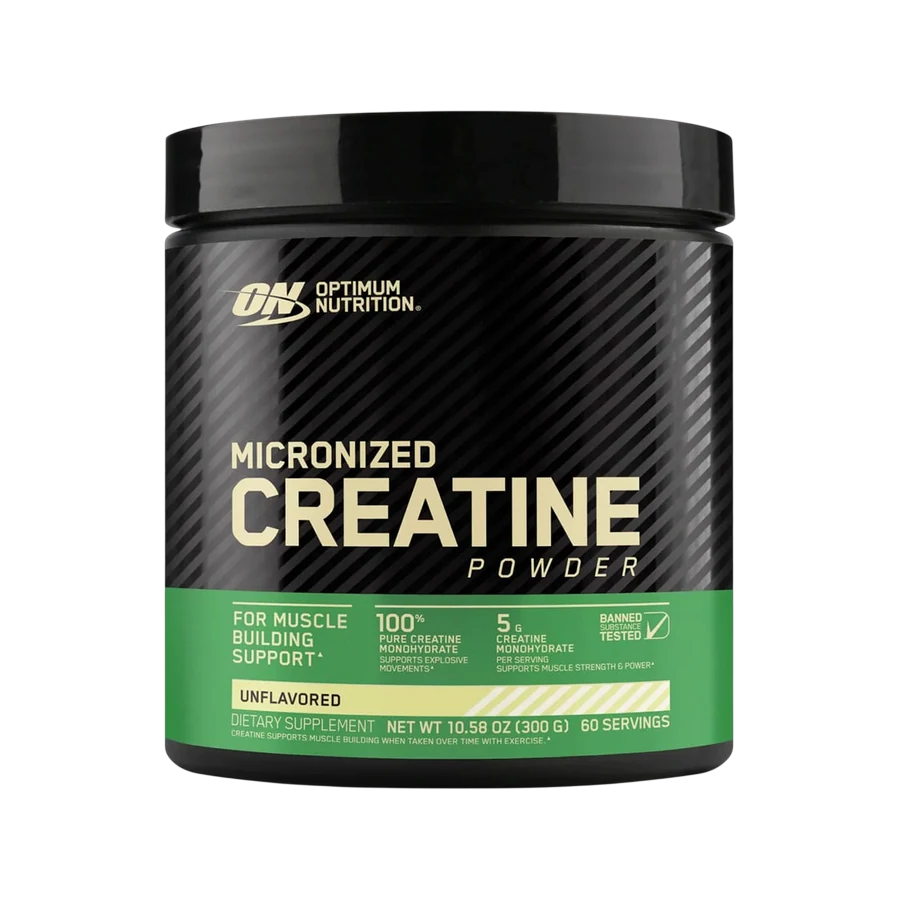
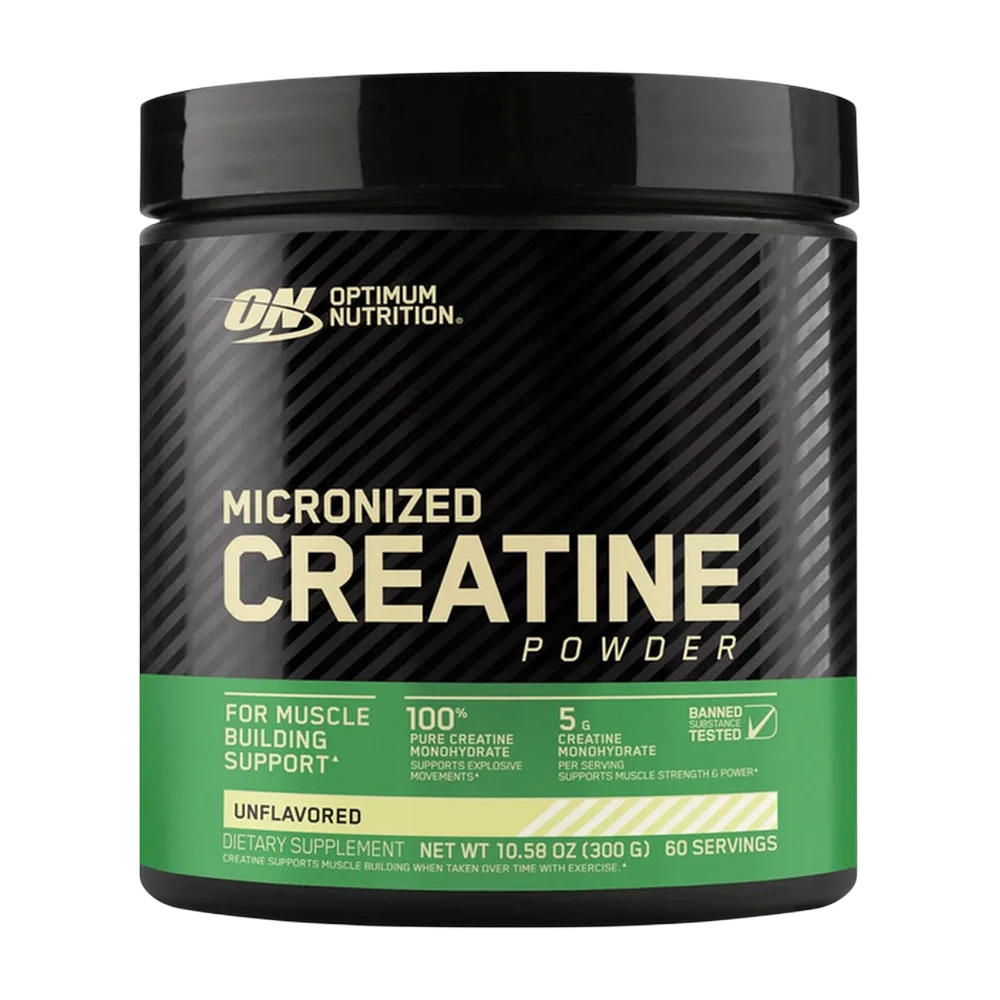
Renders de producto normalizados: los tres tarros a la misma altura (860px) en lienzo único 1000x1000 con margen parejo — antes cada PNG traía dimensiones distintas y el catálogo se veía disparejo

diff --git a/index.html b/index.html
@@ -159,7 +159,7 @@
         <article class="product reveal">
           <span class="product__flag product__flag--quiet">Para empezar</span>
           <div class="product__photo">
-            <picture><source srcset="assets/on.webp" type="image/webp"><img width="791" height="927" src="assets/on.png" alt="Tarro de Optimum Nutrition Micronized Creatine Powder de 300 g" loading="lazy"></picture>
+            <picture><source srcset="assets/on.webp" type="image/webp"><img width="1000" height="1000" src="assets/on.png" alt="Tarro de Optimum Nutrition Micronized Creatine Powder de 300 g" loading="lazy"></picture>
           </div>
           <div class="product__info">
             <p class="product__brand">Optimum Nutrition</p>
@@ -185,7 +185,7 @@
         <article class="product reveal">
           <span class="product__flag product__flag--quiet">Equilibrio</span>
           <div class="product__photo">
-            <picture><source srcset="assets/muscletech.webp" type="image/webp"><img width="293" height="450" src="assets/muscletech.png" alt="Tarro de MuscleTech Platinum Creatine Monohydrate de 400 g" loading="lazy"></picture>
+            <picture><source srcset="assets/muscletech.webp" type="image/webp"><img width="1000" height="1000" src="assets/muscletech.png" alt="Tarro de MuscleTech Platinum Creatine Monohydrate de 400 g" loading="lazy"></picture>
           </div>
           <div class="product__info">
             <p class="product__brand">MuscleTech</p>
@@ -211,7 +211,7 @@
         <article class="product reveal">
           <span class="product__flag">Mejor precio por servicio</span>
           <div class="product__photo">
-            <picture><source srcset="assets/on120.webp" type="image/webp"><img width="524" height="885" src="assets/on120.png" alt="Tarro de Optimum Nutrition Micronized Creatine Powder de 600 g, 120 servicios" loading="lazy"></picture>
+            <picture><source srcset="assets/on120.webp" type="image/webp"><img width="1000" height="1000" src="assets/on120.png" alt="Tarro de Optimum Nutrition Micronized Creatine Powder de 600 g, 120 servicios" loading="lazy"></picture>
           </div>
           <div class="product__info">
             <p class="product__brand">Optimum Nutrition</p>
@@ -573,8 +573,8 @@
   <div class="buybar" id="buyBar" aria-hidden="true">
     <div class="buybar__info">
       <div class="buybar__thumbs">
-        <picture><source srcset="assets/on.webp" type="image/webp"><img width="791" height="927" src="assets/on.png" alt="" loading="lazy"></picture>
-        <picture><source srcset="assets/muscletech.webp" type="image/webp"><img width="293" height="450" src="assets/muscletech.png" alt="" loading="lazy"></picture>
+        <picture><source srcset="assets/on.webp" type="image/webp"><img width="1000" height="1000" src="assets/on.png" alt="" loading="lazy"></picture>
+        <picture><source srcset="assets/muscletech.webp" type="image/webp"><img width="1000" height="1000" src="assets/muscletech.png" alt="" loading="lazy"></picture>
       </div>
       <div class="buybar__text">
         <b>Desde $120.000</b>
